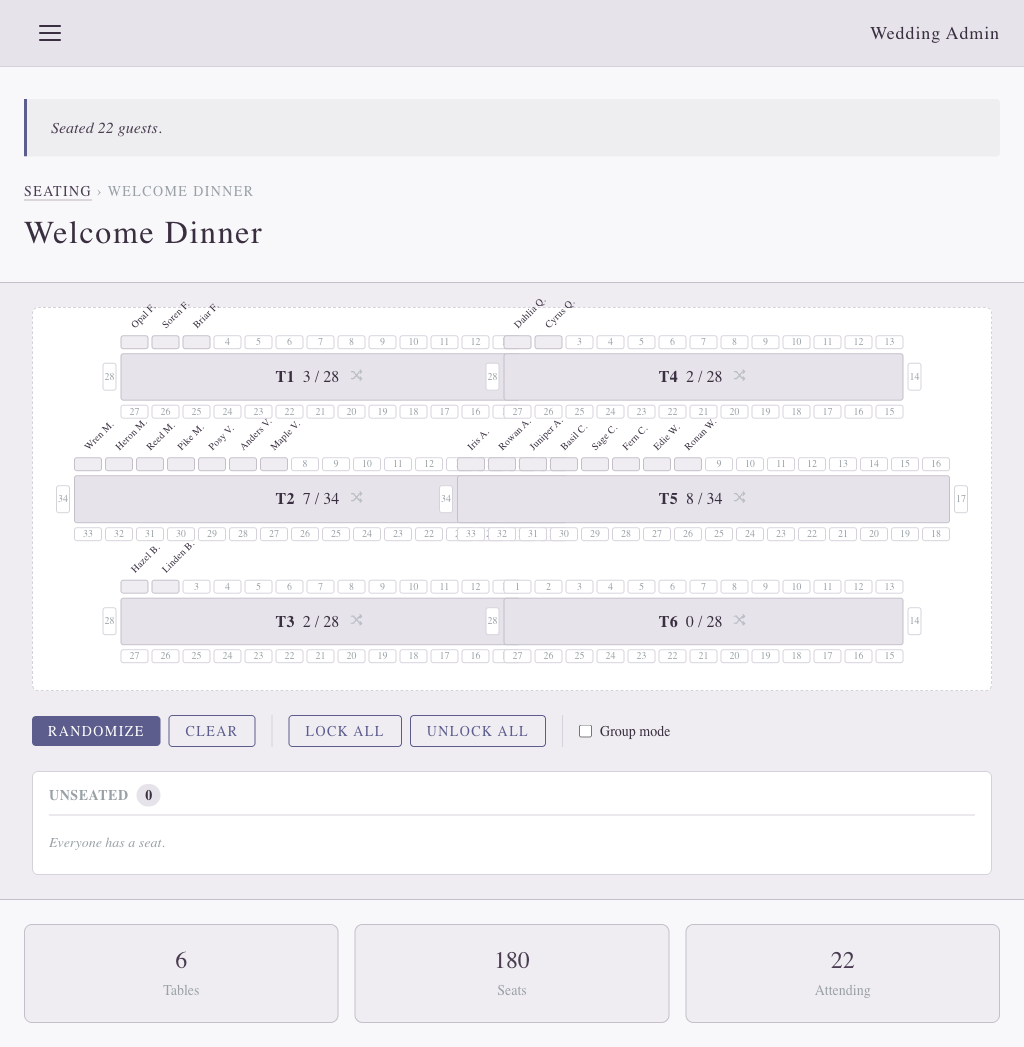
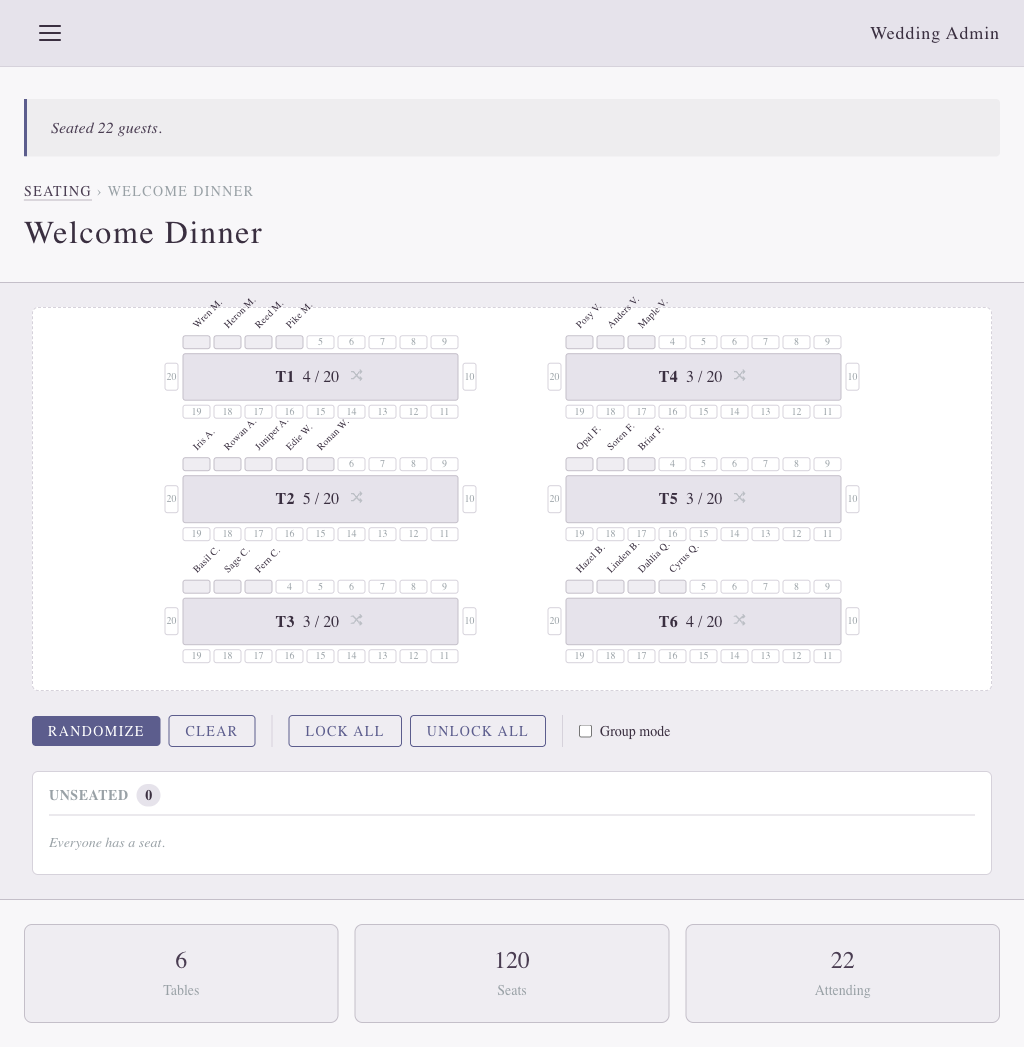
Standardize seating layout configuration and update screenshot - db/seeds.rb: Normalize all table seat counts to 20 across welcome and reception events for consistency - docs/screenshots/admin-seating-chart.png: Update screenshot to reflect new seating configuration

diff --git a/db/seeds.rb b/db/seeds.rb
@@ -105,21 +105,21 @@ puts "Seeding seating tables..."
 # a single seat at each rounded end (rect tables only).
 seating_layout = {
   welcome => [
-    { name: "T1", shape: "rect",  top_seats: 13, bottom_seats: 13, has_left_end: true,  has_right_end: true,  seat_count: 28, pos_x: 30, pos_y: 18, sort_order: 1 },
-    { name: "T2", shape: "rect",  top_seats: 16, bottom_seats: 16, has_left_end: true,  has_right_end: true,  seat_count: 34, pos_x: 30, pos_y: 50, sort_order: 2 },
-    { name: "T3", shape: "rect",  top_seats: 13, bottom_seats: 13, has_left_end: true,  has_right_end: true,  seat_count: 28, pos_x: 30, pos_y: 82, sort_order: 3 },
-    { name: "T4", shape: "rect",  top_seats: 13, bottom_seats: 13, has_left_end: true,  has_right_end: true,  seat_count: 28, pos_x: 70, pos_y: 18, sort_order: 4 },
-    { name: "T5", shape: "rect",  top_seats: 16, bottom_seats: 16, has_left_end: true,  has_right_end: true,  seat_count: 34, pos_x: 70, pos_y: 50, sort_order: 5 },
-    { name: "T6", shape: "rect",  top_seats: 13, bottom_seats: 13, has_left_end: true,  has_right_end: true,  seat_count: 28, pos_x: 70, pos_y: 82, sort_order: 6 }
+    { name: "T1", shape: "rect",  top_seats: 9, bottom_seats: 9, has_left_end: true,  has_right_end: true,  seat_count: 20, pos_x: 30, pos_y: 18, sort_order: 1 },
+    { name: "T2", shape: "rect",  top_seats: 9, bottom_seats: 9, has_left_end: true,  has_right_end: true,  seat_count: 20, pos_x: 30, pos_y: 50, sort_order: 2 },
+    { name: "T3", shape: "rect",  top_seats: 9, bottom_seats: 9, has_left_end: true,  has_right_end: true,  seat_count: 20, pos_x: 30, pos_y: 82, sort_order: 3 },
+    { name: "T4", shape: "rect",  top_seats: 9, bottom_seats: 9, has_left_end: true,  has_right_end: true,  seat_count: 20, pos_x: 70, pos_y: 18, sort_order: 4 },
+    { name: "T5", shape: "rect",  top_seats: 9, bottom_seats: 9, has_left_end: true,  has_right_end: true,  seat_count: 20, pos_x: 70, pos_y: 50, sort_order: 5 },
+    { name: "T6", shape: "rect",  top_seats: 9, bottom_seats: 9, has_left_end: true,  has_right_end: true,  seat_count: 20, pos_x: 70, pos_y: 82, sort_order: 6 }
   ],
   reception => [
-    { name: "T1", shape: "curve", top_seats: 12, bottom_seats: 12, has_left_end: false, has_right_end: false, seat_count: 24, pos_x: 50, pos_y: 50, sort_order: 1 },
-    { name: "T2", shape: "rect",  top_seats: 13, bottom_seats: 13, has_left_end: false, has_right_end: false, seat_count: 26, pos_x: 80, pos_y: 18, sort_order: 2 },
-    { name: "T3", shape: "rect",  top_seats: 13, bottom_seats: 13, has_left_end: false, has_right_end: false, seat_count: 26, pos_x: 80, pos_y: 50, sort_order: 3 },
-    { name: "T4", shape: "rect",  top_seats: 13, bottom_seats: 13, has_left_end: false, has_right_end: false, seat_count: 26, pos_x: 80, pos_y: 82, sort_order: 4 },
-    { name: "T5", shape: "rect",  top_seats: 13, bottom_seats: 13, has_left_end: false, has_right_end: false, seat_count: 26, pos_x: 20, pos_y: 18, sort_order: 5 },
-    { name: "T6", shape: "rect",  top_seats: 13, bottom_seats: 13, has_left_end: false, has_right_end: false, seat_count: 26, pos_x: 20, pos_y: 50, sort_order: 6 },
-    { name: "T7", shape: "rect",  top_seats: 13, bottom_seats: 13, has_left_end: false, has_right_end: false, seat_count: 26, pos_x: 20, pos_y: 82, sort_order: 7 }
+    { name: "T1", shape: "curve", top_seats: 10, bottom_seats: 10, has_left_end: false, has_right_end: false, seat_count: 20, pos_x: 50, pos_y: 50, sort_order: 1 },
+    { name: "T2", shape: "rect",  top_seats: 10, bottom_seats: 10, has_left_end: false, has_right_end: false, seat_count: 20, pos_x: 80, pos_y: 18, sort_order: 2 },
+    { name: "T3", shape: "rect",  top_seats: 10, bottom_seats: 10, has_left_end: false, has_right_end: false, seat_count: 20, pos_x: 80, pos_y: 50, sort_order: 3 },
+    { name: "T4", shape: "rect",  top_seats: 10, bottom_seats: 10, has_left_end: false, has_right_end: false, seat_count: 20, pos_x: 80, pos_y: 82, sort_order: 4 },
+    { name: "T5", shape: "rect",  top_seats: 10, bottom_seats: 10, has_left_end: false, has_right_end: false, seat_count: 20, pos_x: 20, pos_y: 18, sort_order: 5 },
+    { name: "T6", shape: "rect",  top_seats: 10, bottom_seats: 10, has_left_end: false, has_right_end: false, seat_count: 20, pos_x: 20, pos_y: 50, sort_order: 6 },
+    { name: "T7", shape: "rect",  top_seats: 10, bottom_seats: 10, has_left_end: false, has_right_end: false, seat_count: 20, pos_x: 20, pos_y: 82, sort_order: 7 }
   ]
 }
 
